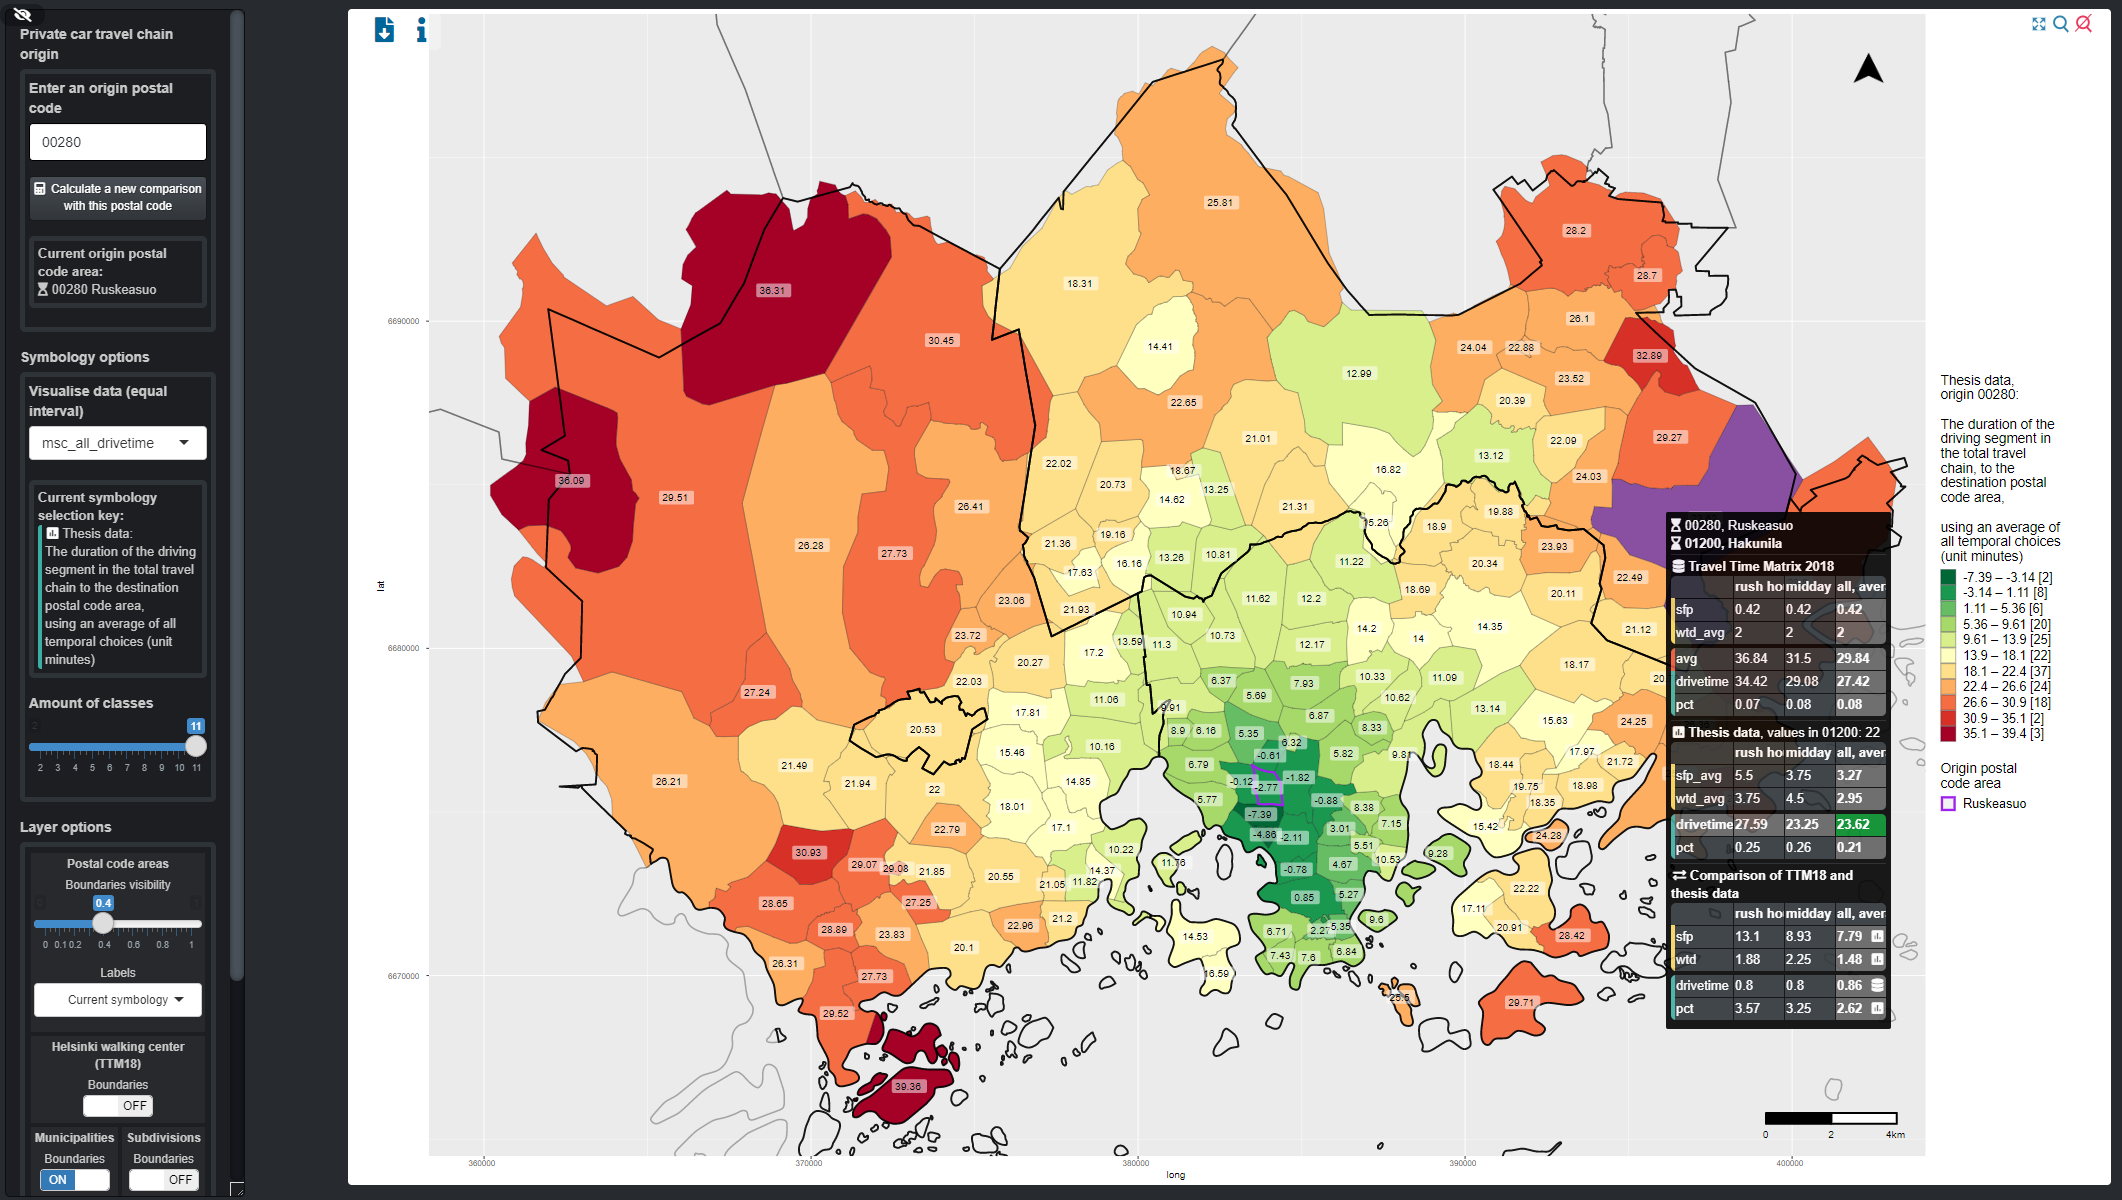
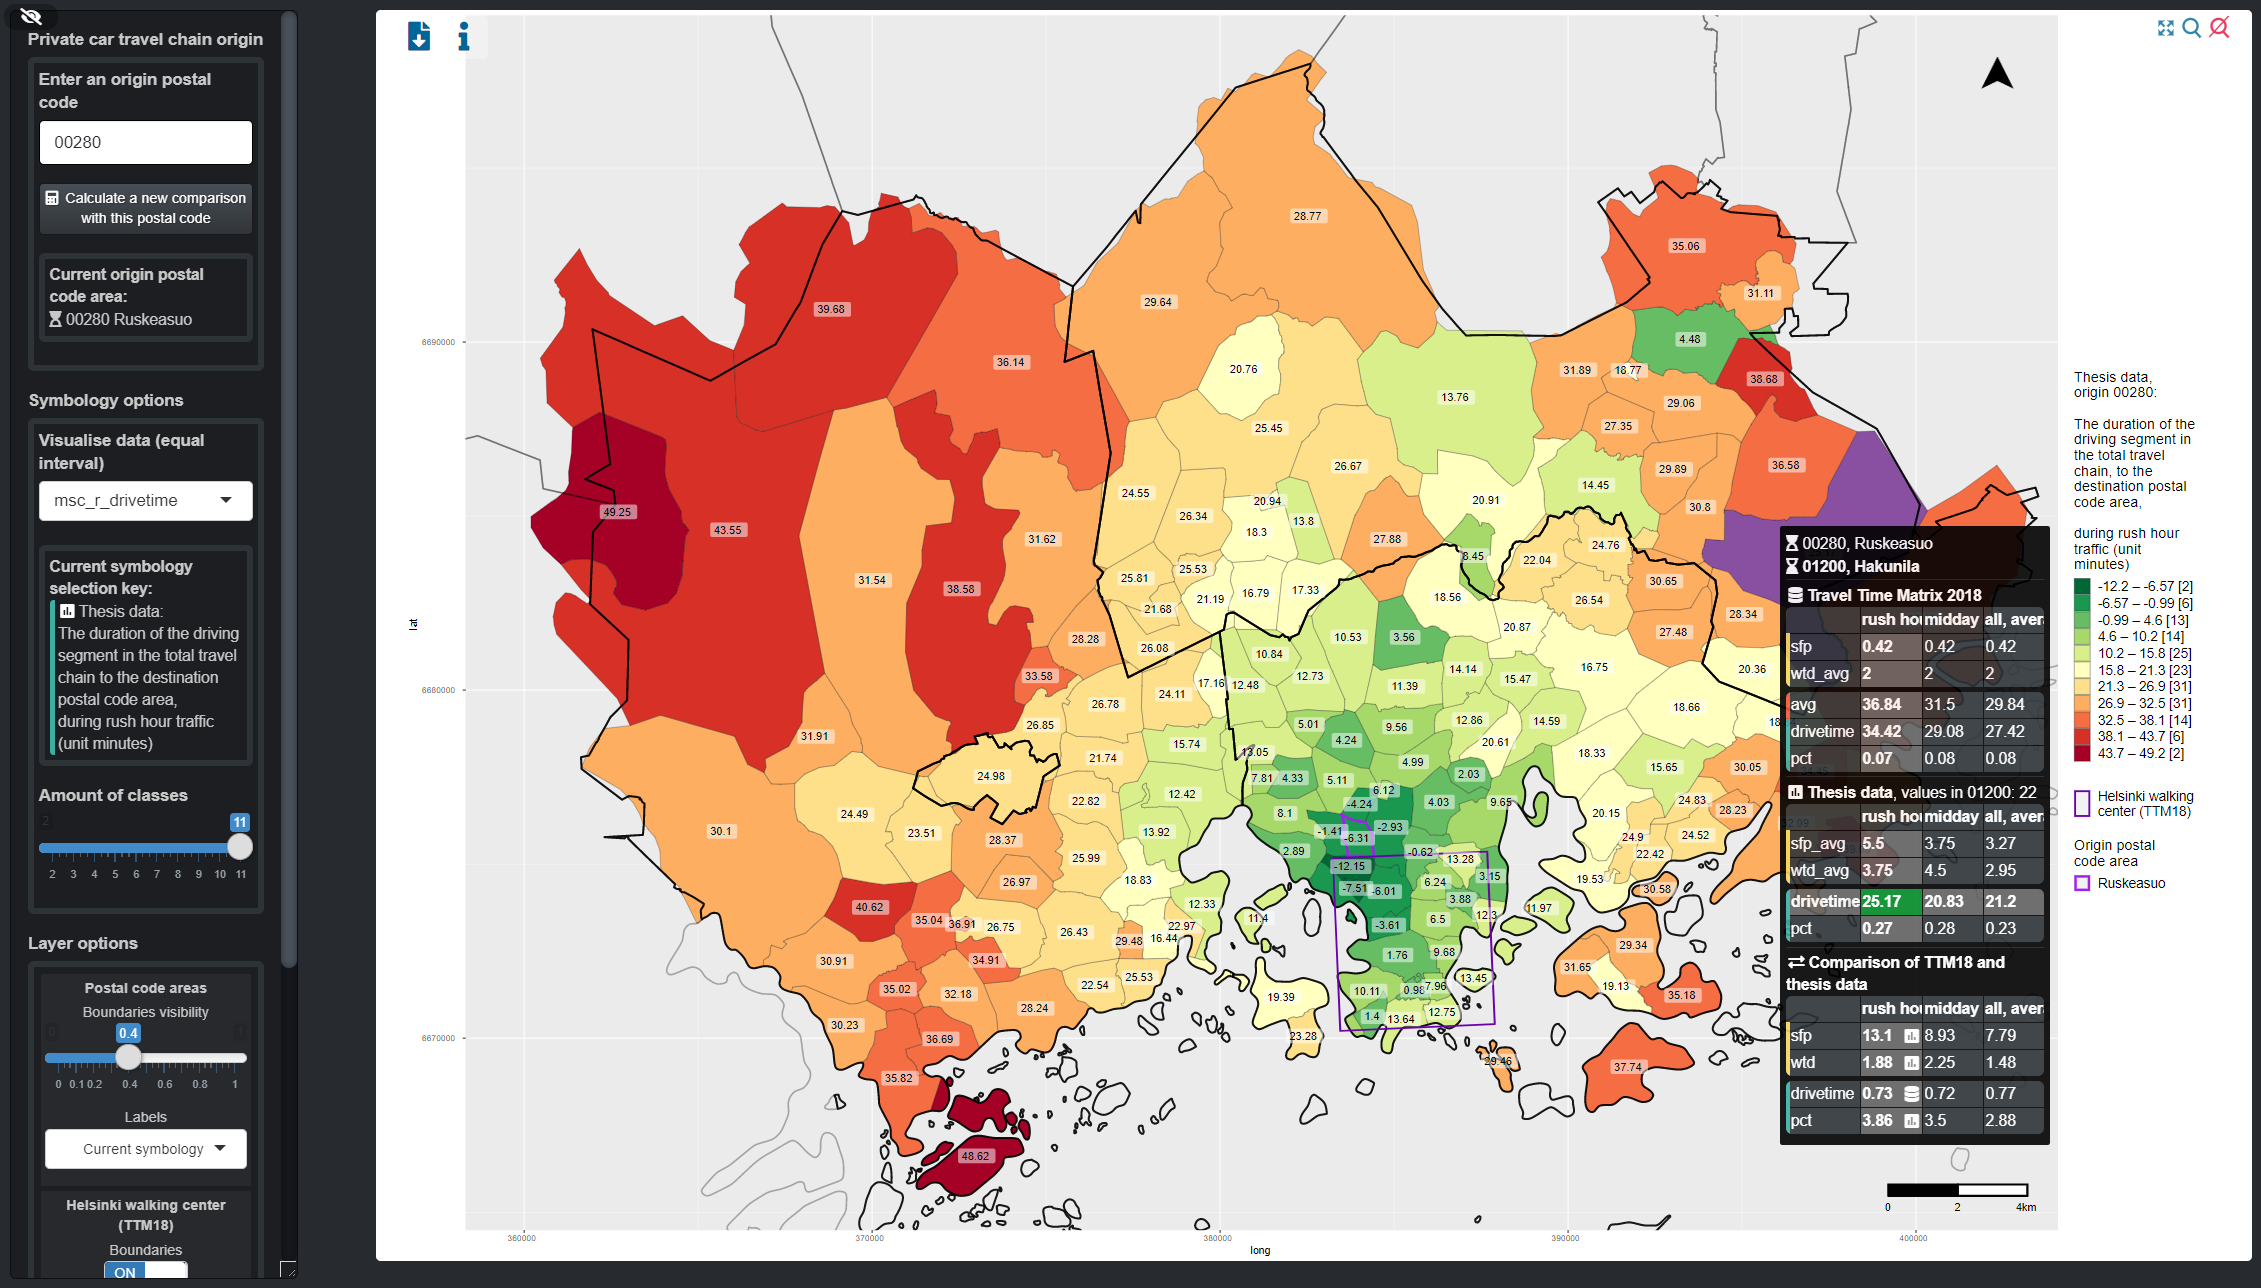
updated comparison app formula for thesis_x_drivetime and thesis_x_pct in chart and pictures

diff --git a/content/c4_results.tex b/content/c4_results.tex
@@ -77,7 +77,26 @@ On a closer look to the municipalities, finer details become apparent. For examp
 \subsection{Statistics}
 \justify
 
-The survey data shows that there are spatial differences in the parking times and walking times between municipalities and regions of Helsinki Capital Region (table~\ref{tab:parktimes_walktimes}). It is shown by the one-way analysis of variance test (ANOVA) that for parktime and walktime there are statistically significant differences between groups (municipality subdivisions). These differences are wide ranging, with mean parking time in Helsinki being 5.2 minutes, 3.8 minutes in Vantaa, 3.2 minutes in Espoo and lastly, 2.1 minutes in Kauniainen. Parking times vary inside municipalities; in Espoo, in the subdivision of Pohjois-Espoo mean parking time was 1.7 minutes while the same value for Suur-Matinkylä was 4.3 minutes. From all the subdivisions in the research area, the subdivision representing the center of Helsinki, Helsinki Southern, had the the longest mean parking time, 7.3 minutes. In the vast majority of subdivision groups, the group sizes were sufficiently large for ANOVA analysis to be significant. This was also true for sample sizes across the board.
+The survey data shows that there are spatial differences in the parking times and walking times between municipalities and regions of Helsinki Capital Region (table~\ref{tab:parktimes_walktimes}). It is shown by the one-way analysis of variance test (ANOVA) that for parktime and walktime there are statistically significant differences (p < 0.05) between the 23 groups (municipality subdivisions). These differences are wide ranging, with mean parking time in Helsinki being 5.2 minutes, 3.8 minutes in Vantaa, 3.2 minutes in Espoo and lastly, 2.1 minutes in Kauniainen. Parking times vary inside municipalities; in Espoo, in the subdivision of Pohjois-Espoo mean parking time was 1.7 minutes while the same value for Suur-Matinkylä was 4.3 minutes. From all the subdivisions in the research area, the subdivision representing the center of Helsinki, Helsinki Southern, had the the longest mean parking time, 7.3 minutes. In the vast majority of subdivision groups, the group sizes were sufficiently large for ANOVA analysis to be significant. This was also true for sample sizes across the board.
+
+\textcolor{red}{kun verrataan kahta subdiviä (2 ryhmää), käytetään anovaa ja katsotaan merkitsevyys. Suur-Tapiola ja Aviapolis oli " ", ei-merkitsevä, Suur-Tapiola ja Helsinki SOuthern ***. Kirjoita muutamasta parista, joissa ***. Vois mainita yhden kiinnostavan, missä parkkiaikojen ero on kohinaa (Tapiola ja Aviapolis). Muista tää sama walktimelle.}
+
+% 290720
+% t-test-vaihtóehto 2 ryhmän anovalle:
+% t.test(thesisdata[thesisdata$subdiv == "Helsinki Southern", ]["parktime"], thesisdata[thesisdata$subdiv == "Espoo Suur-Tapiola", ]["parktime"], alternative="greater")
+% - panu tsekkaa että sopiiks kahden ryhmän vertailuu tehdä anovalla vai t.test
+% stddev yksikkö on minuutti!
+% pieni stdev on pakkautuneempi, iso on leveämpi kuvio
+
+\textcolor{red}{290720 katso muut muuttujat niin, että mukana kaikki subdivit, onko merkitsevyyttä anovassa}
+\textcolor{red}{290720 parktime: verrataan arki-viikonloppu, **, walktime: ei ole ollenkaan!}
+\textcolor{red}{voi tutkii myös kaupunkien erot pareina}
+\textcolor{red}{parktime espoossa ja helsingissä (eri tarkastelut), epsoosssa ei niin väliä milloin pysäköi, kun taas helsingisså merkittävämmät erot}
+\textcolor{red}{raportoi nyt ne mun omatkin variaapelit!}
+\textcolor{red}{comparison-sovelluksen tulokset: muutama esimerkkireitti ja kerro pct:stä}
+
+% 290720 vantaan timeofday arkiruuhka ja arkiei-ruuhka oudot tulokset, arkiruuhka nopeampi. Mutta tämä on ei-merkitsevä anovan mukaan! synninpäästö
+% espoon timeofdayn pienet erot ovat kohinaa anovan mukaan (ei-merkitsevä), can't specify ei mukana
 
 In the finest resolution available, the postal code areas, the parking times closely follow those described in the subdivision scale. The longest mean parking times are encountered in the center of Helsinki, where the value for Punavuori is 10.6 minutes (91 data rows) and Meilahden sairaala-alue 9.4 minutes (42 data rows). Mean parking times over five minutes are recorded in all over the center area, but also in Kulosaari (5.3 minutes, 48 data rows) and Kaitalahti (6.5 minutes, 16 data rows). In Espoo, the longest mean parking times were found from Matinkylä (5.1 minutes, 62 data rows) and Tapiola (4.6 minutes, 71 data rows) and in Espoonlahti with 4.3 minutes to generally find a parking spot (30 data rows). In Vantaa, the vicinity of Helsinki-Vantaa airport is not as apparent as with subdivisions. It took the longest to find a parking spot in Tikkurila with 6.4 minutes (85 data rows). According to the results it was relatively hard to find a parking spot in Keimola (5.9 minutes, 7 data rows) and Kivistö (5.7 minutes, 30 data rows), too.
 
@@ -91,7 +110,7 @@ When viewed through postal code areas, walking time shows somewhat different res
 %http://www.understandingdata.net/2017/05/11/anova-tables-in-r/
 %https://www.statisticssolutions.com/sample-size-calculation-for-one-way-anovas-in-dissertations-and-theses/
 
-%levene näyttää vain vähän eri, niin ei oo välii, sitten pitäis kattoo keskihajontaa
+% levene näyttää vain vähän eri, niin ei oo välii, sitten pitäis kattoo keskihajontaa
 %anova pitäis olla ok koska 20 tapausta jo riittävä tuloksen löytymiseen 
 %voin todeta, että on tilastolliseti merkitsevä ero, sitten vaan raportoi mikä on ero, esim espoo vs helsinki
 %anova todistaa, että kaikilla esim "subdiveillä" ei ole samoja arvoja
@@ -156,6 +175,10 @@ When viewed through postal code areas, walking time shows somewhat different res
         \end{tabular}}
     \end{table}
 \end{hyphenrules}
+
+% 290720 anova kertoo että onks vähintään JOKU 1 ryhmå merkitsevästi eri kuin muut, sitten seuraavaksi pitäis tutkii lisää, vaikka pareittain
+
+\textcolor{red}{tee tää sama ylläoleva kaavio timeofday, parkspot, likert!!! tärkee. ilmoita myös että on tilastollinen merkitsevyys.}
 
 %Preliminary findings
 % old, these are probably counted using muncodes, that yields different results than what I have above with subdivs

diff --git a/content/c3_data.tex b/content/c3_data.tex
@@ -2,6 +2,7 @@
 \subsection{General workflow}
 \justify
 
+% selitä vähän mikä on jenks breaks
 A selection of web applications were designed and programmed for this thesis. In this chapter the process to create these applications is presented, from the design board to a functional web application to the end stage of data processing and visualisation. Four applications are presented in this chapter: a spatial web survey for data collection, and three separate web applications for the analysis and visualisation of the survey results.
 
 Essential data for this research was provided by Statistics Finland, the research group Digital Geography Lab of University of Helsinki, the municipalities of Helsinki Capital Region, and Finnish Environment Institute. The research area of this thesis was based on PAAVO open data by postal code area (\cite{StatisticsFinland2019a}. Data such as the CORINE Land Cover 2018 artificial surface polygons and areas of urban structure were utilised to provide additional explanatory variables in the survey data (\textcolor{red}{cite corine}; \cite{Ristimaki2017}). For the visualisation of the survey results, various data by Statistics Finland was used (\cite{StatisticsFinland2012}).
@@ -693,8 +694,8 @@ It was decided that the basic spatial unit for the comparison application would 
             
             \multirow{4}{3cm}[-1ex]{Thesis data} & sfp\_avg, min & Time consumed, on average, in searching for parking in a postal code area, according to the thesis survey respondents. & $\frac{parktime_1 + parktime_2 + ... + parktime_n}{n}$, while postal code value is constant. \\
             & wtd\_avg, min & Average walking time from one's parked private car to the final destination in a postal code area, according to the thesis survey respondents. & $\frac{walktime_1 + walktime_2 + ... + walktime_n}{n}$, while postal code value is constant. \\
-            & drivetime, min & The length of the driving segment of the mean duration of the complete travel chain (\textit{TTM} data) from the origin postal code area to the destination postal code area, without searching for parking (thesis survey mean) or walking to destination (thesis survey mean). & $ttm\_x\_avg - thesis\_x\_sfp - thesis\_x\_wtd$, where $x$ is $r$, $m$, or $all$. \\
-            & pct, \% & How much do the thesis mean values for searching for parking and walking from one's parked car to the final destination constitute of the mean duration of the complete travel chain? & $\frac{(thesis\_x\_sfp + thesis\_x\_wtd)}{ttm\_x\_avg}$ \\
+            & drivetime, min & The length of the driving segment of the mean duration of the complete travel chain (\textit{TTM} data) from the origin postal code area to the destination postal code area, without searching for parking (thesis survey mean) or walking to destination (thesis survey mean). & $ttm\_x\_drivetime - thesis\_x\_sfp - thesis\_x\_wtd$, where $x$ is $r$, $m$, or $all$. \\
+            & pct, \% & How much do the thesis mean values for searching for parking and walking from one's parked car to the final destination constitute of the mean duration of the complete travel chain? & $\frac{(thesis\_x\_sfp + thesis\_x\_wtd)}{ttm\_x\_drivetime}$ \\
             \greyrule
             
             \multirow{4}{3cm}[-1ex]{Compare TTM and thesis} & sfp, \% & Compare \textit{TTM} and thesis survey values for searching for parking. & $\frac{thesis\_x\_sfp}{ttm\_sfp}$, where $x$ is $r$, $m$, or $all$. \\
